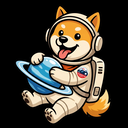
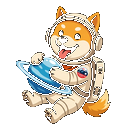
fix: align Santi racers on map and remove black backgrounds
Retrace the dashboard motion paths from the FINISH arch along the circuit,
center racers on the path, and key out black pixels from team sprites.

diff --git a/src/main/webui/src/components/Dashboard/RaceTrack.jsx b/src/main/webui/src/components/Dashboard/RaceTrack.jsx
@@ -4,16 +4,18 @@ import { RACE_MAP_IMAGE, TEAMS_CONFIG } from '../../Config';
 
 const TRACK_WIDTH = 1024;
 const TRACK_HEIGHT = 682;
+const RACER_SIZE = 70;
+const RACER_ANCHOR = RACER_SIZE / 2;
 
 /**
- * Open centerlines on dod-race-map.jpg (1024×682): start near Kubernetes (bottom-left)
- * → finish arch on the right.
+ * Centerlines on dod-race-map.jpg (1024×682).
+ * Path starts at the FINISH arch (right) and follows the circuit counter-clockwise.
  */
 const TRACK_PATH_LANE_1 =
-  'M 205 592 Q 108 508 90 385 Q 104 262 245 198 Q 405 106 575 84 Q 750 78 910 190 Q 974 296 956 408 Q 942 438 928 452';
+  'M 928 418 Q 868 260 780 155 Q 560 52 300 95 Q 95 145 88 310 Q 120 395 255 365 Q 470 345 560 360 Q 710 335 770 455 Q 835 565 735 615 Q 520 655 245 615 Q 115 520 145 430 Q 260 360 520 375 Q 760 365 928 418';
 
 const TRACK_PATH_LANE_2 =
-  'M 225 572 Q 128 488 110 365 Q 124 242 265 178 Q 425 86 595 64 Q 770 58 930 170 Q 994 276 976 388 Q 962 418 948 432';
+  'M 948 438 Q 888 280 800 175 Q 580 72 320 115 Q 115 165 108 330 Q 140 415 275 385 Q 490 365 580 380 Q 730 355 790 475 Q 855 585 755 635 Q 540 675 265 635 Q 135 540 165 450 Q 280 380 540 395 Q 780 385 948 438';
 
 const RaceDiv = styled.div`
   text-align: center;
@@ -32,21 +34,23 @@ const RaceDiv = styled.div`
 
   .car {
     transition: offset-distance 2000ms linear;
-    
+    offset-anchor: ${RACER_ANCHOR}px ${RACER_ANCHOR}px;
   }
 
   #car1 {
     offset-path: path('${TRACK_PATH_LANE_1}');
-    offset-distance: ${props => `${props.distance1}%`};
+    offset-distance: ${(props) => `${props.distance1}%`};
     offset-rotate: auto;
-    transform-origin: 35px 35px;
   }
 
   #car2 {
     offset-path: path('${TRACK_PATH_LANE_2}');
-    offset-distance: ${props => `${props.distance2}%`};
+    offset-distance: ${(props) => `${props.distance2}%`};
     offset-rotate: auto;
-    transform-origin: 35px 35px;
+  }
+
+  .racer {
+    transform: translate(${-RACER_ANCHOR}px, ${-RACER_ANCHOR}px);
   }
 `;
 
@@ -71,10 +75,20 @@ function RaceTrackSvg(props) {
       />
 
       <g className="car" id="car1">
-        <image xlinkHref={`${TEAMS_CONFIG[0].car}.png`} width="70" height="70" />
+        <image
+          className="racer"
+          xlinkHref={`${TEAMS_CONFIG[0].car}.png`}
+          width={RACER_SIZE}
+          height={RACER_SIZE}
+        />
       </g>
       <g className="car" id="car2">
-        <image xlinkHref={`${TEAMS_CONFIG[1].car}.png`} width="70" height="70" />
+        <image
+          className="racer"
+          xlinkHref={`${TEAMS_CONFIG[1].car}.png`}
+          width={RACER_SIZE}
+          height={RACER_SIZE}
+        />
       </g>
     </svg>
   );
